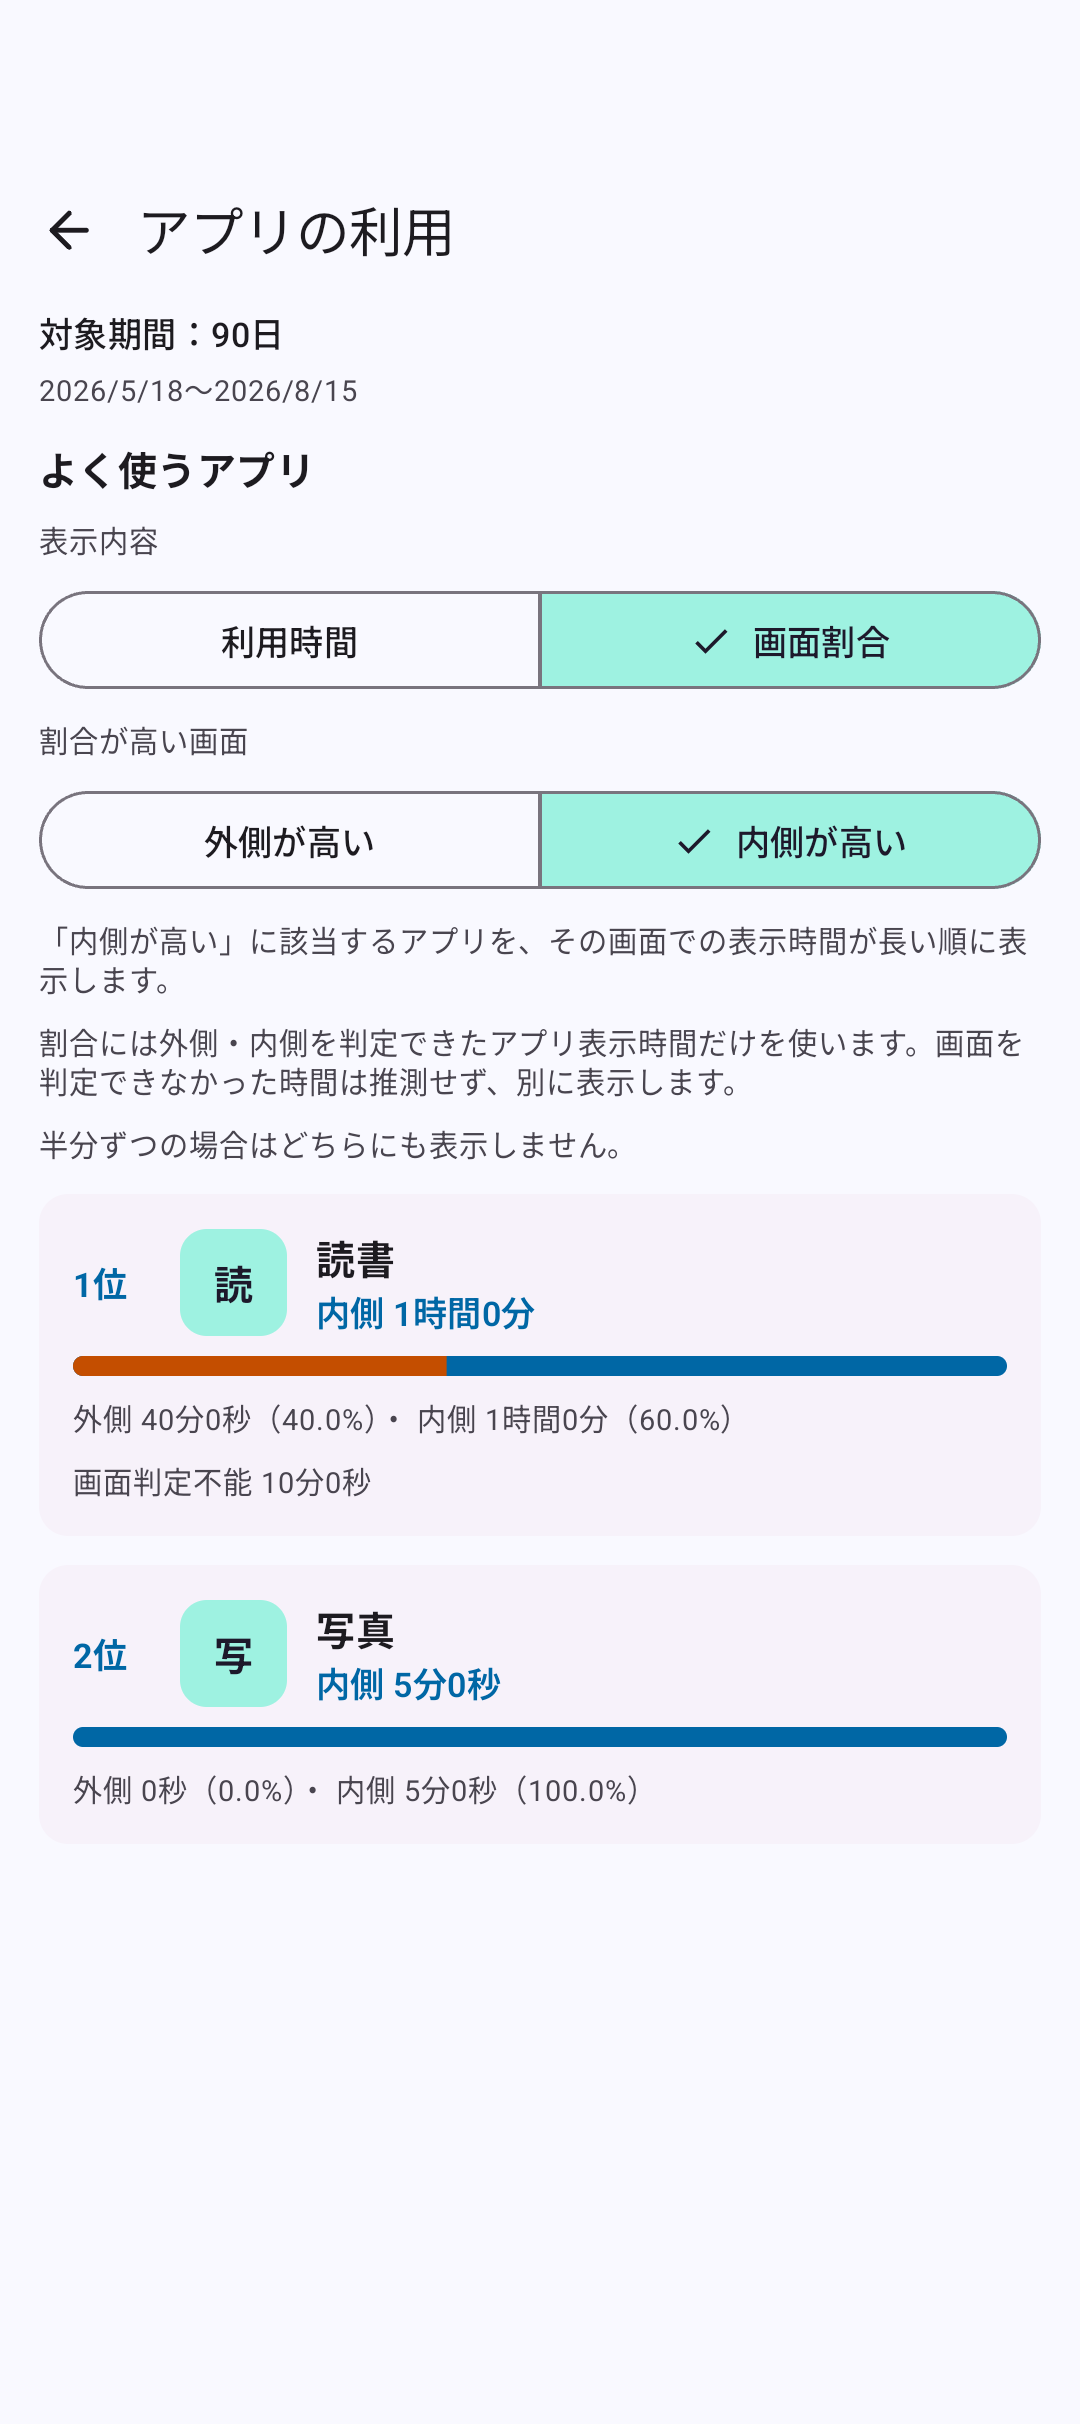
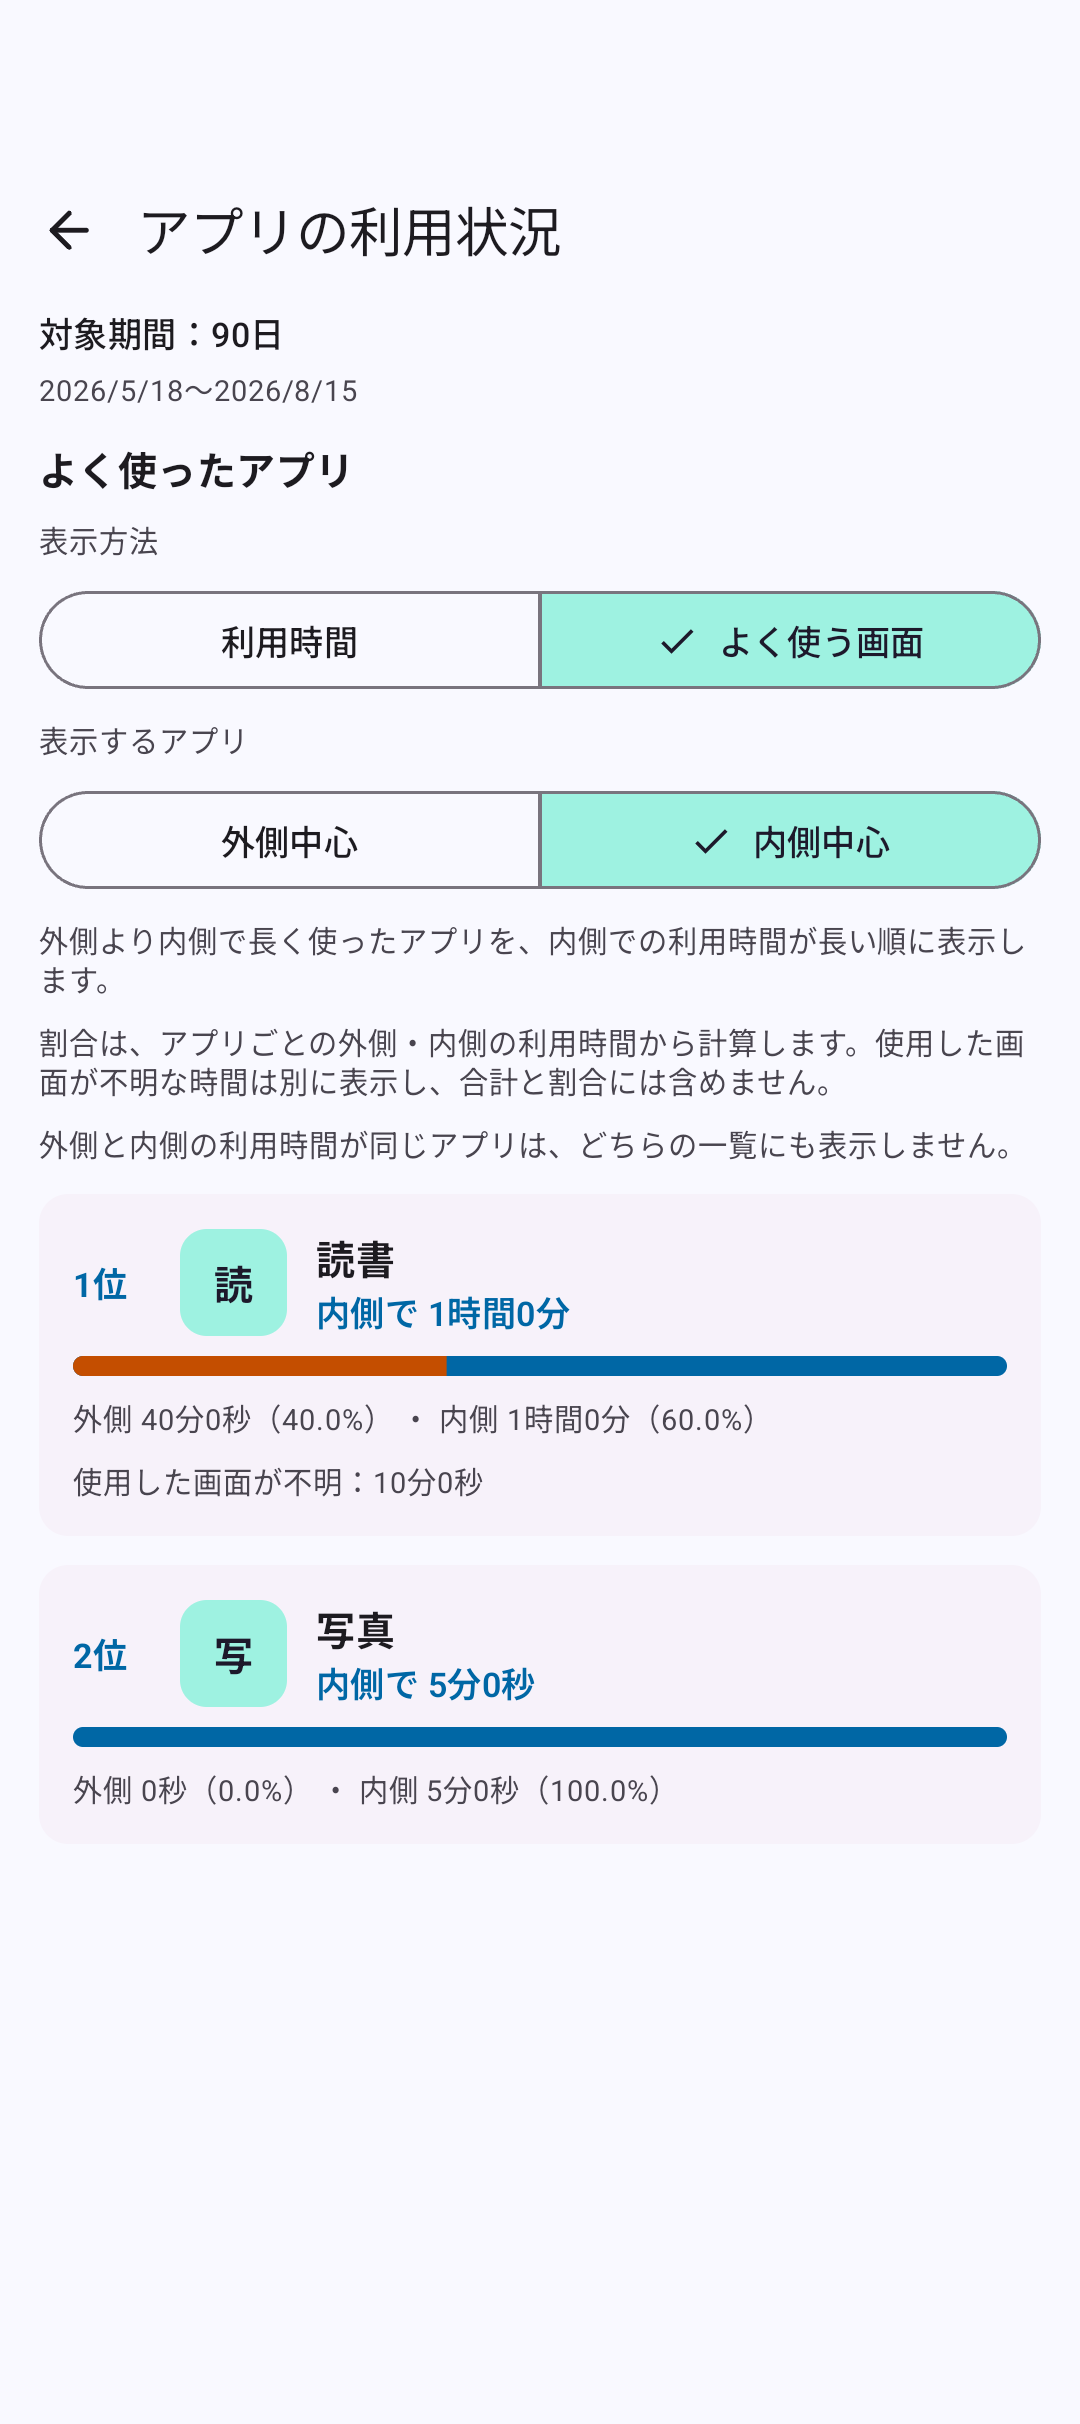
Refresh ranking captures after bilingual copy review

diff --git a/docs/screenshots/pr16/README.md b/docs/screenshots/pr16/README.md
@@ -4,16 +4,16 @@ These unmodified screenshots use synthetic, in-memory data from
 `StoreScreenshotCaptureTest`, with generic app names and no user usage history.
 
 - Before: main at `dc12e5b8a010cd63c660faf027be0f8f6346fc2b`.
-- After: integrated PR #16 at `074fba2a8eb392b93221a0a7685738e52af1b007`.
-- Device: `Foldlytics_PR16_Final_20260905` foldable AVD, Android API 36,
+- After: integrated PR #16 at `a8816497d8f179f1efbd29b6c062d6d196e79bbb`.
+- After-capture device: `Foldlytics_PR16_Copy_20260905` foldable AVD, Android API 36,
   CLOSED (state 0), 1080 × 2424 pixels, 390 dpi, font scale 1.0, awake and unlocked.
 
 ## Total ranking: same data before and after
 
 The four total-ranking captures use the same existing 90-day synthetic dataset. The after
-view adds the Usage time / Display share selector, classified-time wording, and per-app shares;
+view adds the Usage time / By display selector, an explanation of unknown time, and per-app shares;
 the ranking order and measured durations remain the same.
-The even-split exclusion note appears only in Display share, where it applies.
+The even-split exclusion note appears only in By display, where it applies.
 
 | Locale | Before | After |
 | --- | --- | --- |
@@ -29,19 +29,39 @@ Reading and Messages each show 10 minutes of display-undetermined time outside t
 Browser's even split belongs to neither majority list. These values are not a before/after
 comparison with the total-ranking dataset above.
 
-| Locale | Inner higher | Outer higher |
+| Locale | Mostly inner / 内側中心 | Mostly outer / 外側中心 |
 | --- | --- | --- |
 | English | ![Inner-majority app shares in English](inner-share-en.png) | ![Outer-majority app shares in English](outer-share-en.png) |
 | Japanese | ![Inner-majority app shares in Japanese](inner-share-ja.png) | ![Outer-majority app shares in Japanese](outer-share-ja.png) |
 
+## Japanese and English copy review
+
+The copy now names both displays in the comparison, explains the ordering by usage time,
+and distinguishes unknown-display time from each app's total and percentages.
+The calculation, filtering, and ranking logic did not change during this copy revision.
+
+| Previous Japanese | Revised Japanese | Previous English | Revised English |
+| --- | --- | --- | --- |
+| 画面割合 | よく使う画面 | Display share | By display |
+| 内側が高い / 外側が高い | 内側中心 / 外側中心 | Inner higher / Outer higher | Mostly inner / Mostly outer |
+| 判定時間合計 | 合計 | Classified total | Total |
+| 画面判定不能 | 使用した画面が不明 | Display undetermined | Unknown display |
+
 The coordinator also validated the UI on the OPENED display (state 2, 2076 × 2152 pixels),
-with no clipping found in either state. The eight PNGs here are the CLOSED captures; no opened
-captures are included. Synthetic UI checks do not establish real sensor accuracy: physical-device
+with no clipping found in either state at font scale 1.0. At font scale 2.0 on CLOSED, the
+changed Japanese and English selectors remained readable; longer descriptions and card details
+wrap and can be scrolled. The English selector was shortened to By display after the initial
+Most-used display label wrapped and produced unequal button heights at 2.0.
+
+The eight PNGs here are the CLOSED, font-scale-1.0 captures; no opened or large-text captures
+are included. Synthetic UI checks do not establish real sensor accuracy: physical-device
 usage access, calibration, and hinge sensing remain unverified.
 
 Validation at the after-source: 142 JVM tests passed; lint reported zero errors and nine existing
-warnings; both APK builds passed. The full connected suite passed 82/82 on CLOSED, and direct
-instrumentation of `AppUsageScreenTest` plus `StoreScreenshotCaptureTest` passed 11/11 on OPENED.
-The coordinator reviewed the updated captures and the scoped copy fix.
+warnings; both APK builds passed. The full connected suite passed 83/83 on CLOSED, and direct
+instrumentation of `AppUsageScreenTest` plus `StoreScreenshotCaptureTest` passed 12/12 on OPENED.
+The two Japanese/English display-share capture tests also passed at font scale 2.0 on CLOSED.
+The coordinator reviewed the revised wording and captures in both languages, including the
+comparison direction, empty states, unknown-time explanations, and accessible descriptions.
 
 See [capture instructions](../../../store-assets/google-play/README.md#display-share-review-screenshots).
